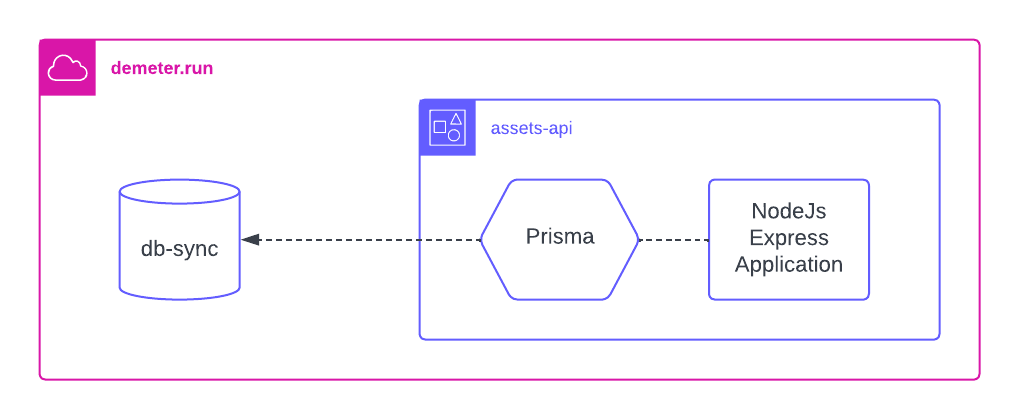
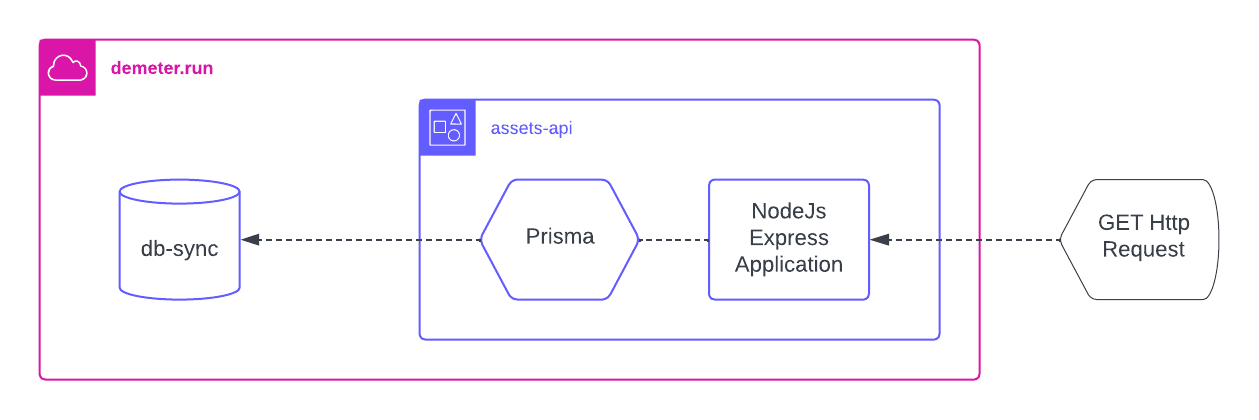
fix: minor updates and fixes

diff --git a/README.md b/README.md
@@ -4,7 +4,7 @@ This starter kit shows how you can start building a simple REST API to query ass
 
 ## Dev Environment
 
-For running this starter kit you'll need access to a running [DB-sync](https://docs.cardano.org/cardano-components/cardano-db-sync/about-db-sync) instance in sync with a Node running on the network of your preference.
+For executing this starter kit you'll need access to a running [DB-sync](https://docs.cardano.org/cardano-components/cardano-db-sync/about-db-sync) instance in sync with a Node running on the network of your preference.
 
 In case you don't want to install the required components yourself, you can use [Demeter.run](https://demeter.run) platform to create a cloud environment with access to common Cardano infrastructure. The following command will open this repo in a private, web-based VSCode IDE with access to a running DB-Sync instance in the preview network.
 
@@ -12,13 +12,13 @@ In case you don't want to install the required components yourself, you can use 
 
 ### Implementation Details
 
-This Starter Kit implements a ver simple API with a single endpoint for querying the Assets information for a given PolicyId. 
+This Starter Kit implements a very simple REST API with a single GET endpoint for querying Assets information for a given `Policy Id`. 
 
 The server is a [NodeJs](https://nodejs.org/en/) application using [ExpressJS](https://expressjs.com/) and Typescript. 
 
 We have implemented the API following the clean architecture principles, making it easy to include new endpoints, data sources and use cases. 
 
-For connecting with the database layer we have chosen to use [Prisma](https://www.prisma.io/) providing us with a great development experience when it comes to access and querying db-sync. 
+For connecting with the database layer we have chosen to use [Prisma](https://www.prisma.io/) which provides us with a great development experience when it comes to access and querying db-sync. 
 
 <img src="/assets/diagram.png" alt="diagram">
 
@@ -88,7 +88,36 @@ npx prisma generate
 This command should have generated the high level Typescript objects for accessing DB-Sync from our code. 
 If you check the `prisma.schema` file again you should see its now updated with the schema definition of db-sync. 
 
-You can check in the `assetsDataSource.ts` how we are running the query using Prisma for querying DB-Sync and returning the Assets information mapped to a high-level object:
+```typescript
+generator client {
+  provider = "prisma-client-js"
+}
+
+datasource db {
+  provider = "postgresql"
+  url      = env("DATABASE_URL")
+}
+
+model ada_pots {
+  id       BigInt  @id @default(autoincrement())
+  slot_no  BigInt
+  epoch_no Int
+  treasury Decimal @db.Decimal(20, 0)
+  reserves Decimal @db.Decimal(20, 0)
+  rewards  Decimal @db.Decimal(20, 0)
+  utxo     Decimal @db.Decimal(20, 0)
+  deposits Decimal @db.Decimal(20, 0)
+  fees     Decimal @db.Decimal(20, 0)
+  block_id BigInt  @unique(map: "unique_ada_pots")
+  block    block   @relation(fields: [block_id], references: [id], onDelete: Cascade, onUpdate: Restrict)
+} ...
+```
+
+Feel free to explore the schema from this file, or you can use the `Schema` tab inside of the `DB-Sync` feature of [Demeter.run](https://demeter.run) for browsing the available tables. 
+
+<img src="assets/db-sync-schema.png" alt="db-sync schema">
+
+For our REST API we have implemented a data source in `assetsDataSource.ts`. You can check `DBSyncAssetsDataSource` for how we are using Prisma for querying DB-Sync and returning the Assets information mapped to a high-level object:
 
 ```typescript
 async getForPolicyId(policyId: string): Promise<Asset[]> {
@@ -110,7 +139,9 @@ async getForPolicyId(policyId: string): Promise<Asset[]> {
 }
 ```
 
-On the terminal run the following commands:
+#### Build and Run
+
+Once we have Prisma connected to our DB-Sync instance we can build and run the application. Go back to the terminal and execute the following commands:
 
 ```bash
 npm run build
@@ -139,6 +170,7 @@ Example request with a policy id from the `preview` network:
 https://8000-slippery-sympathy-7n7uxh.us1.demeter.run/assets/policy/f5335f99c169cf2cbec9c6405750b533c011b24705590b800aa54cd6
 ```
 
+The response we get for the given policy id:
 ```json
 [{
 	"id": "118",
